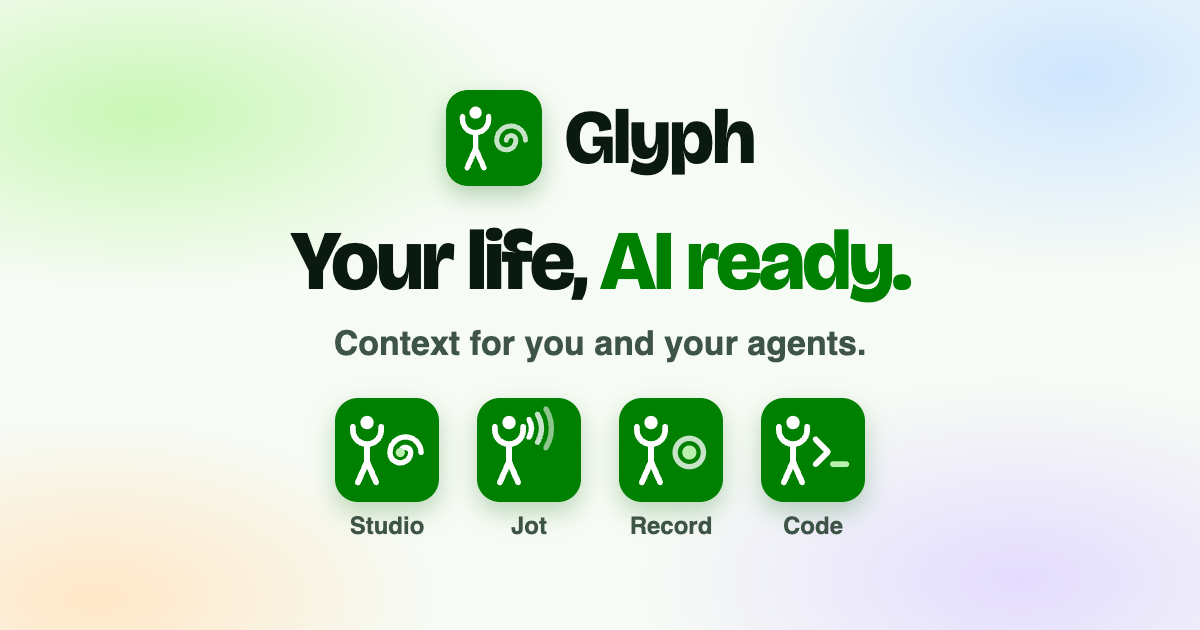
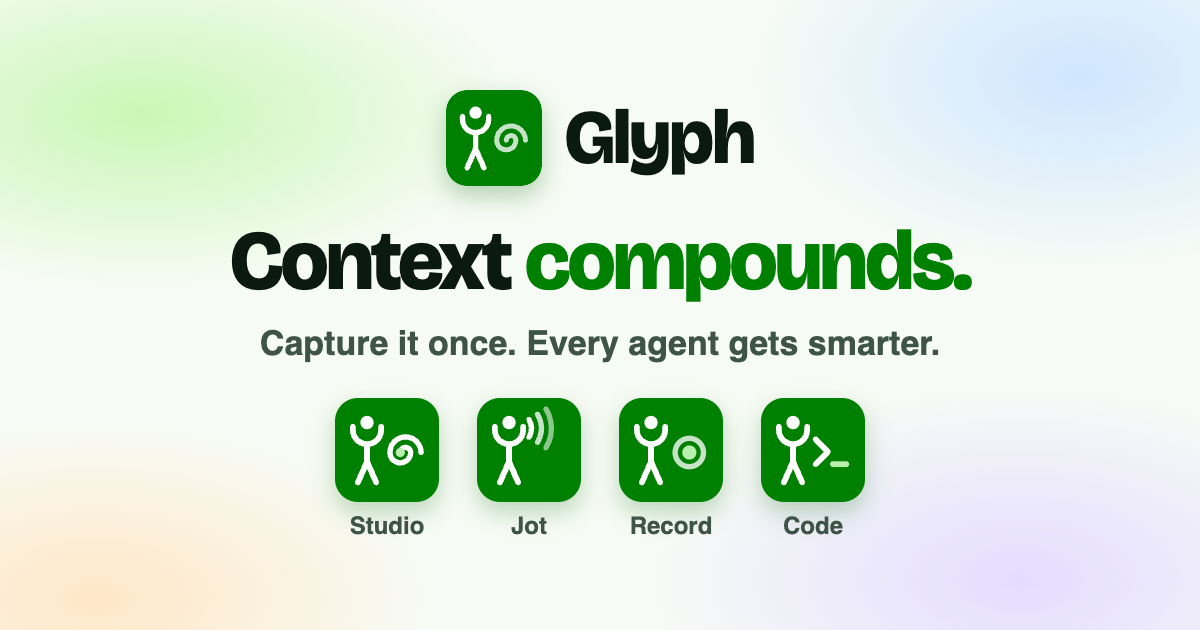
glyph.fru.dev home: "Context compounds." and the paid apps the family replaces
The headline reads "Context compounds." with "Capture it once. Every agent gets
smarter." under it (copy.json, share image redrawn). Under the buttons, the
crossed-out strip: Wispr Flow and Superwhisper for Jot, Granola, Otter and
Fireflies for Record, then "or" Glyph, free on GitHub. Prices as on the app
pages, October 2026.

Claude-Session: https://claude.ai/code/session_012askAJo29fpX9HucGUhMSa

Changed region(s): [[0.185, 0.3619, 0.8325, 0.4825], [0.2158, 0.5127, 0.7708, 0.573]]

diff --git a/docs/index.html b/docs/index.html
@@ -95,6 +95,22 @@
   .node.big{flex-direction:row;text-align:left}
   .flow .side{flex-direction:column;align-items:stretch}
 }
+/* the strip: the paid apps the family replaces, by Glyph app */
+.fam{gap:8px;padding:10px 14px}
+.fam .grp{display:flex;flex-direction:column;align-items:center;gap:5px}
+.fam .grp+.grp{padding-left:10px;border-left:1px solid var(--line)}
+.fam .paid{gap:8px}
+.fam figure img,.fam .ours img{width:clamp(34px,4.4vh,44px)}
+.fam .gl{display:inline-flex;align-items:center;gap:5px;font:700 12px -apple-system,sans-serif;color:var(--green);text-decoration:none;white-space:nowrap}
+.fam .gl img{width:16px;height:16px;border-radius:24%}
+.fam .gl:hover{text-decoration:underline}
+.fam .ours b{font-size:clamp(18px,2.4vh,22px)}
+.famnote{margin:0;font-size:12px;color:var(--dim)}
+@media not ((min-width:960px) and (min-height:560px)){
+  .left .fam{order:4;width:min(100%,560px);overflow-x:auto;scrollbar-width:none}.left .famnote{order:4;width:min(100%,560px);text-align:center}
+}
+@media (max-width:440px){.fam{gap:6px;padding:8px 10px}.fam .grp+.grp{padding-left:6px}.fam .paid{gap:5px}.fam figure img,.fam .ours img{width:32px}}
+@media (min-width:960px) and (min-height:560px){.left .cta.loved{margin-bottom:clamp(44px,6vh,72px)}.left .famnote{margin-top:calc(8px - clamp(28px,6vh,64px))}}
 </style>
 </head>
 <body data-page="home">
@@ -102,13 +118,20 @@
   <div class="left">
     <div class="top">
       <a class="brand" href="/"><img class="icon" src="/family/glyph-tile.svg" width="80" height="80" alt=""><div><b>Glyph</b><span id="copy-label">by fru.dev</span></div></a>
-      <h1 data-lines='["AI ready."]' data-fit=".left"><span id="copy-h1">Your life,</span> <em><span id="said">AI ready.</span></em></h1>
-      <p class="lede" id="copy-sub">Context for you and your agents.</p>
+      <h1 data-lines='["compounds."]' data-fit=".left"><span id="copy-h1">Context</span> <em><span id="said">compounds.</span></em></h1>
+      <p class="lede" id="copy-sub">Capture it once. Every agent gets smarter.</p>
     </div>
     <div class="cta loved">
       <a class="btn go" id="dl" href="https://github.com/fru-dev3/glyph-studio/releases/latest/download/Prevail-mac-arm64.dmg" data-track="file_download" title="Glyph Studio for Mac"><svg viewBox="0 0 24 24" fill="none" stroke="currentColor" stroke-width="2.2" stroke-linecap="round" stroke-linejoin="round" aria-hidden="true"><path d="M12 3v12m0 0l-5-5m5 5l5-5M5 21h14"/></svg><span>Download <span class="formac">Glyph </span>Studio</span><span class="dlc" data-downloads="fru-dev3/glyph-studio" data-match="\.(dmg|exe)$" data-floor="388" hidden><svg viewBox="0 0 24 24" fill="none" stroke="currentColor" stroke-width="2.6" stroke-linecap="round" stroke-linejoin="round" aria-hidden="true"><path d="M12 5v12m0 0l-5-5m5 5l5-5"/></svg><b class="n"></b></span></a>
       <a class="btn star" href="https://github.com/fru-dev3/glyph-studio" data-track="star_on_github" aria-label="Star Glyph Studio on GitHub"><svg viewBox="0 0 24 24" fill="currentColor" stroke="currentColor" stroke-width="1.5" stroke-linejoin="round" aria-hidden="true"><path d="M12 3l2.8 5.7 6.2.9-4.5 4.4 1 6.2L12 17.3 6.5 20.2l1-6.2L3 9.6l6.2-.9z"/></svg><span class="lbl">Star</span><span class="count" data-stars="fru-dev3/glyph-studio" data-floor="37" hidden></span><span class="love" aria-hidden="true"><svg class="arrow" viewBox="0 0 60 60" fill="none" stroke="currentColor" stroke-width="3" stroke-linecap="round" stroke-linejoin="round"><path d="M52 6C51 28 32 44 8 54"/><path d="M44 14l8-10 7 10"/></svg><span class="say">show some love<svg class="heart" viewBox="0 0 24 24" fill="currentColor"><path d="M12 21s-7.5-4.6-10-9.3C.4 8.4 2.3 4.5 6.2 4.5c2.4 0 4 1.4 5.8 3.5 1.8-2.1 3.4-3.5 5.8-3.5 3.9 0 5.8 3.9 4.2 7.2C19.5 16.4 12 21 12 21z"/></svg></span></span></a>
     </div>
+    <div class="alt fam" aria-label="Instead of Wispr Flow at 15 dollars a month or Superwhisper at 8.49 for dictation, and Granola at 14, Otter at 16.99 or Fireflies at 18 for meetings, the Glyph apps are free on GitHub">
+      <div class="grp"><div class="paid"><figure><img src="/logos/wispr.webp" width="48" height="48" alt="Wispr Flow" title="Wispr Flow"><s>$15</s></figure><figure><img src="/logos/superwhisper.webp" width="48" height="48" alt="Superwhisper" title="Superwhisper"><s>$8.49</s></figure></div><a class="gl" href="/jot"><img src="/family/dictate-tile.svg" alt="">Jot</a></div>
+      <div class="grp"><div class="paid"><figure><img src="/logos/granola.webp" width="48" height="48" alt="Granola" title="Granola"><s>$14</s></figure><figure><img src="/logos/otter.webp" width="48" height="48" alt="Otter" title="Otter"><s>$16.99</s></figure><figure><img src="/logos/fireflies.webp" width="48" height="48" alt="Fireflies" title="Fireflies"><s>$18</s></figure></div><a class="gl" href="/record"><img src="/family/record-tile.svg" alt="">Record</a></div>
+      <span class="or">or</span>
+      <a class="ours" href="https://github.com/fru-dev3/glyph"><img src="/family/glyph-tile.svg" width="48" height="48" alt=""><b>Free</b><small>on GitHub</small></a>
+    </div>
+    <p class="note famnote">Logos belong to their owners. Monthly prices from their sites, October 2026. Not affiliated.</p>
   </div>
   <div class="right">
     <!-- stargazers -->
